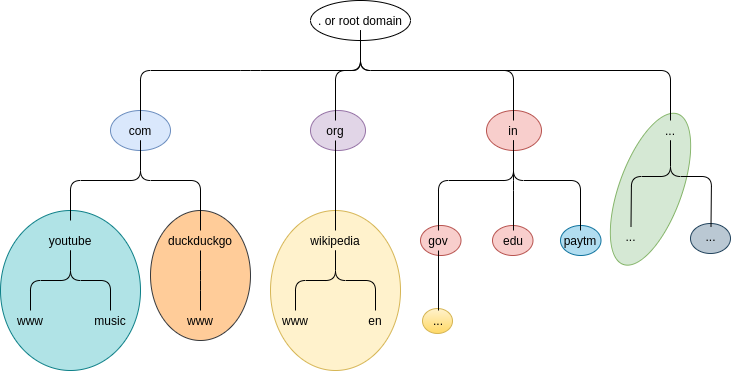
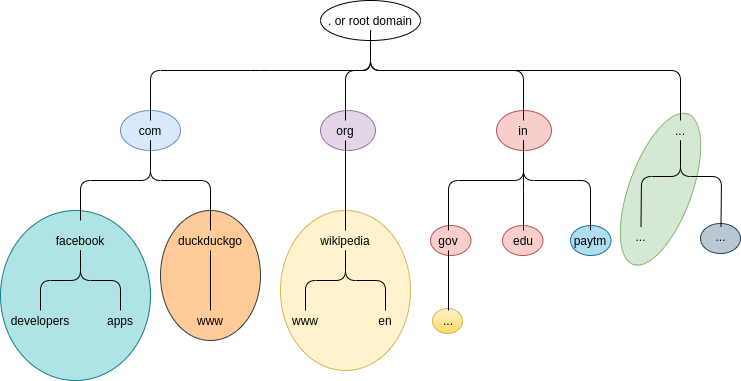
made changes in DNS blog

diff --git a/blog/how-dns-really-works/index.html b/blog/how-dns-really-works/index.html
@@ -66,8 +66,8 @@
       "copyrightYear" : "2020",
       "datePublished": "2020-08-20 13:17:14 \u002b0530 IST",
       "dateModified" : "2020-08-20 13:17:14 \u002b0530 IST",
-      "url" : "\/blog\/how-dns-works\/",
-      "wordCount" : "2521",
+      "url" : "\/blog\/how-dns-really-works\/",
+      "wordCount" : "2731",
       "keywords" : ["Blog"]
     }
   
@@ -115,9 +115,9 @@
           <article class="post__content">
               
 <h2 id="purpose-of-dns">Purpose of DNS<a class="anchor" href="#purpose-of-dns">#</a></h2>
-<p>Internet is a big place. A big set of protocols and physical infrastructre is in place that enables us to use it at such ease. Every device connected to the internet has an IP address assigned to it. This device can host plethora of services which anyone over the internet can access by connecting to it using it&rsquo;s IP address.
-For example, Wikipedia has made its website accessible on IP address 103.102.166.224 (IP address might be different for you), now if I want to access wikipedia I must know this not so easy to memorize long string of numbers so that I can reach out to it. Pffff.</p>
-<p>This would straight away put limitation on accessing all the cool stuff on the Internet. We would rather have some sort of a mechanism which would remember these details for us. So just like a Contact list in a phone, DNS (short for Domain Name System) maintains bunch of information about the server name(or rather domain name) which is invisibly fetched by your web browser (just an example) whenever you open any website.</p>
+<p>Internet is a big place. A large set of protocols and physical infrastructure is in place that enables us to use it at such an ease. Every device connected to the internet has an IP address assigned to it. This device can host a plethora of services which anyone over the internet can access by connecting to it using it&rsquo;s IP address.
+For example, Wikipedia has made its website accessible on IP address 103.102.166.224 (the IP address might be different for you), but it is not convenient to memorize a long string of numbers so that I can reach out to it. Pffff.</p>
+<p>This would straight away put limitations on accessing all the cool stuff on the Internet. It will be simpler to use <code>wikipedia.org</code> instead of an IP address. We would rather have some sort of a mechanism which would remember these mappings for us. So just like a Contact list in a phone, DNS (short for Domain Name System) maintains bunch of information about the server name(or rather domain name) which is invisibly queried by your web browser whenever you open any website.</p>
 <p>Technically DNS is a <mark>distributed, hierarchical database</mark> spread across the internet with mechanisms to interact - insert and retrieve information - with this database. Information in DNS is stored as resource records (RR) which is essentially a mapping between the domain name and some data. Some resource record types are :</p>
 <ul>
 <li><code>A</code>		: maps domain name to an IPv4 address.</li>
@@ -126,58 +126,58 @@ For example, Wikipedia has made its website accessible on IP address 103.102.166
 <li><code>NS</code>		: maps domain name with its authorized nameservers.</li>
 <li><code>SOA</code>		: specifes the start of zone for a domain.</li>
 </ul>
-<p>Having resource records for things more than just an IP address is important to bring a hierarchical structure to DNS and make domain name management easy. DNS also bring consistency in accessiblity by maintaining the same server name in case the IP address of the server is changed.</p>
+<p>Having resource records for things more than just an IP address is important to bring a hierarchical structure to DNS and make domain name management easy. DNS also brings consistency in accessiblity by maintaining the same server name in case the IP address of the server is changed.</p>
 <p>DNS is a critical structure for internet and internet, as we know it, would crumble without DNS.</p>
 <h3 id="breakdown-of-a-url">Breakdown of a URL<a class="anchor" href="#breakdown-of-a-url">#</a></h3>
-<p>Before we begin with how a URL (or a server name) is resolved by DNS, lets first understand a URL and figure out which part of a URL is resolved by DNS. Consider the below URL</p>
+<p>Before we begin, lets first understand a URL and figure out which part of a URL is resolved by DNS. Consider the below URL</p>
 <pre><code>https://www.youtube.com/watch?v=dQw4w9WgXcQ
 </code></pre>
 <ul>
 <li>&lsquo;https&rsquo; is the protocol to be used for communicating with the web service once the connection is established.</li>
-<li>&lsquo;<a href="http://www.youtube.com">www.youtube.com</a>&rsquo; is the domain name which represents the device hosting the web service and needs to be resolved. It is also called Fully Qualified Domain Name (FQDN).</li>
+<li>&lsquo;<a href="http://www.youtube.com">www.youtube.com</a>&rsquo; is the domain name which represents the device hosting the web service and needs to be resolved to an IP address. It is also called Fully Qualified Domain Name (FQDN).</li>
 <li>&lsquo;watch?v=dQw4w9WgXcQ&rsquo; is the resource or page we want to access in the web service.</li>
 </ul>
-<p>The FQDN string is made up of labels separated by a single dot. Traditionally FQDNs end with a dot which representing the root domain. Both &lsquo;<a href="http://www.youtube.com">www.youtube.com</a>&rsquo; and &lsquo;<a href="http://www.youtube.com">www.youtube.com</a><mark>.</mark>&rsquo; are same. The end dot is omitted in representation but internally all resolution occur with the end dot in place.</p>
+<p>The FQDN string is made up of labels separated by a single dot. Traditionally FQDNs end with a dot which represents the root domain. Both &lsquo;<a href="http://www.youtube.com">www.youtube.com</a>&rsquo; and &lsquo;<a href="http://www.youtube.com">www.youtube.com</a><mark>.</mark>&rsquo; are same. The dot in the end can be omitted in representation but internally all resolution occurs with the end dot in place.</p>
 <p><img src="/blog/images/url-breakdown.png" alt="image"></p>
 <h2 id="hierarchy-in-dns">Hierarchy in DNS<a class="anchor" href="#hierarchy-in-dns">#</a></h2>
 <h3 id="domain-names">Domain Names<a class="anchor" href="#domain-names">#</a></h3>
-<p>Domain name is a realm within the internet where the entity owning the domain name possess administrative power over it - create or update resource records in DNS for the corresponding domain name. Hierarchy can be seen in a domain name and can be visualized as a tree. <code>wikipedia.org.</code> is an example of a domain name.
-The hierarchy of domains descend from the right to the left label in the FQDN. Each label to the left specifies a sub-domain of the domain on the right. First domain in the hierarchy is the root domain (represented by a dot .).</p>
-<p><code>com</code>, <code>org</code>, <code>in</code>, <code>io</code> are some sub-domain under the root domain. These first level of domains under the root domain are called Top Level Domains (TLDs) and are independent for operation from the root domain.
-Sub-domains of the TLDs are available to the users of internet for purchase for example <code>wikipedia</code> is the subdomain of TLD <code>org.</code> which must have been purchased at some point of time.</p>
+<p>A domain name is a realm within the internet where the entity owning the domain name possesses administrative power over it - create or update resource records in DNS for the corresponding domain name. Hierarchy can be seen in a domain name and can be visualized as a tree. <code>wikipedia.org.</code> is an example of a domain name.
+The <mark>hierarchy</mark> of domains descend from the right to the left label in the FQDN. Each label to the left specifies a sub-domain of the domain on the right. First domain in the hierarchy is the root domain (represented by a dot .).</p>
+<p><code>com</code>, <code>org</code>, <code>in</code>, <code>io</code> are some sub-domains under the root domain. This first level of domains under the root domain are called Top Level Domains (TLDs) and are independent for operation from the root domain.
+Sub-domains of the TLDs are available to the users of internet for purchase. For example <code>wikipedia</code> is the subdomain of TLD <code>org.</code> which must have been purchased at some point of time.</p>
 <p><img src="/blog/images/hierarchy-dns.png" alt="image"></p>
 <ul>
 <li><code>com</code>, <code>org</code>, <code>in</code> are subdomains of root domain.</li>
-<li><code>youtube</code>, <code>duckduckgo</code> are subdomain of <code>com</code> or <code>com.</code> domain.</li>
+<li><code>youtube</code>, <code>duckduckgo</code> are subdomains of <code>com</code> or <code>com.</code> domain.</li>
 <li><code>www</code>, <code>music</code> are subdomains of <code>youtube.com</code> or <code>youtube.com.</code> domain.</li>
 </ul>
-<p>Having authority over a domain name gives the ability to map that domain to an IP address of some network device(which may be running some network services), to create sub-domains. Domain owner can even choose to delegate authority of a sub-domain to a different entity. This is what TLDs generally do when they sell a sub-domain.</p>
+<p>Having authority over a domain name gives the ability to map that domain to an IP address of some network device(which may be running some network services) or to create sub-domains. Domain owner can even choose to delegate authority of a sub-domain to a different entity. For example if Google feels like then it can sell domain <code>music.youtube.com</code> and delegate full authority of the domain to the buyer. This is what TLDs generally do when they sell a sub-domain.</p>
 <h3 id="zones">Zones<a class="anchor" href="#zones">#</a></h3>
-<p>A zone is the set of sub-domains including the domain itself over which a domain owner exercises full control. For example The root zone just has the root domain. ICANN organization, which manages the root zone, has the authority to create more TLDs (which would be subdomains) as they have done in the past.</p>
-<p>Sub-domains of root domain <code>com</code>, <code>org</code> are completely independent from the root domain in terms of authority. This means that the root domain is not affected by any mean if any new sub-domain is added under the <code>com</code> domain as the <code>com</code> domain is outside its jurisdiction. <code>youtube.com</code> is in a separate zone. Domains <code>www.youtube.com</code> and <code>music.youtube.com</code> are in the same zone as <code>youtube.com</code>. If <code>youtube.com</code> wanted to add a new service, say for live streaming, they can setup <code>stream.youtube.com</code> without bothering the parent domain <code>com</code>.</p>
+<p>A zone is the set of sub-domains including the domain itself over which a domain owner exercises full control. The root zone just has the root domain. ICANN organization, which manages the root zone, has the authority to create more TLDs (which would be subdomains) as they have done in the past.</p>
+<p>Sub-domains of root domain <code>com</code>, <code>org</code> are completely independent from the root domain in terms of authority. This means that the root domain is not affected by any means if any new sub-domain is added under the <code>com</code> domain, as the <code>com</code> domain is outside its jurisdiction. <code>facebook.com</code> is in a separate zone. Domains <code>apps.facebook.com</code> and <code>developers.facebook.com</code> are in the same zone as <code>facebook.com</code>. If <code>facebook.com</code> wanted to add a new service, say for live tv, they can setup <code>tv.facebook.com</code> in the same zone without bothering the parent domain <code>com</code>.</p>
 <p><img src="/blog/images/zones-dns.png" alt="image"></p>
 <p>It is possible for a domain to include just a few sub-domains under its zone and delegate authority for the other subdomains.</p>
 <h3 id="authoritative-nameserver">Authoritative Nameserver<a class="anchor" href="#authoritative-nameserver">#</a></h3>
-<p>Each of the domain have alteast 2 (for redundancy) dedicated authoritative nameservers associated with them. These nameservers maintain, serve information for the domain and subdomains and is the component in DNS resolution which is queried for resource records (domain - data mapping) for the domains. The nameservers enables the DNS to be distributed as the domains don&rsquo;t have to rely on a single server to get resolved.</p>
-<p>It is up to the administrators to configure the nameservers as upto their choice. Typically big organizations maintain their own authoritative nameservers. But it is very common for a domain name to have its authoritative nameserver shared between other domains. In other words, many separate, non related domains names could be using shared nameservers.</p>
+<p>Each of the domains have alteast 2 (for redundancy) dedicated authoritative nameservers associated with them. These nameservers maintain and serve resource records for the domain and its subdomains. If there is a query for a domain name then it will be ultimately served by its authoritative nameservers.</p>
+<p>Authoritative nameservers are important components of DNS as they form the nodes of the distributed, hierarchical database that is queried upon for domain name resolution. They make DNS distributed as each domain name can have its own nameservers and is not tied to a single central database.</p>
+<p>It is up to the administrators to configure the nameservers as per their choice. Big organizations may maintain their own authoritative nameservers that manage resource records exclusive to their domains. But it is very common for a domain name to have its authoritative nameserver shared between other domains. In other words, many separate, non related domains names could be using shared nameservers.</p>
 <h2 id="dns-resolution-in-action">DNS Resolution in Action<a class="anchor" href="#dns-resolution-in-action">#</a></h2>
-<p>DNS resolution is initiated by a DNS resolver seeking for some information (like an IP address) of a domain name. It creates a DNS query and sends it to the DNS server whose purpose is to resolve DNS queries for the DNS resolver. We can configure our devices to use specific DNS servers. Most of the Internet Service Providers provide a DNS server which is automatically used as default. <code>8.8.8.8</code> is a very popular, easy to remember, DNS server provided by Google. Below image demonstrates the flow of queries and responses in DNS resolution.</p>
+<p>DNS resolution is initiated by a DNS client seeking for some information (like an IP address) of a domain name. It creates a DNS query and sends it to the DNS server who then resolves the query for the DNS client. When we connect to Internet, our network configurations hold default DNS Servers which might be provided by our ISP. We can even use DNS servers of our choice. <code>8.8.8.8</code> is a very popular, easy to remember, DNS server provided by Google.</p>
+<p>Below image demonstrates the flow of queries and responses in DNS resolution.</p>
 <p><img src="/blog/images/dns-resolution.png" alt="image"></p>
 <ol>
-<li>The client (DNS resolver) seeking Type <code>A</code> resource records, which holds IP address, for the domain en.wikipedia.org creates a DNS query and sends it to the configured DNS server.</li>
-<li>DNS Server starts resolving the domain name one label at a time from right to left starting with the root domain. How would it resolve the top in the hierarchy root domain? DNS servers have nameservers of root domain stored with them to begin with. Next in line would be <code>org.</code> It queries one of the authoritative nameservers of root domain asking for nameservers of <code>org.</code> Note that it searches for nameserver because they hold all the information for the domain.</li>
+<li>The client seeking Type <code>A</code> resource records, which holds IP address, for the domain en.wikipedia.org creates a DNS query and sends it to the configured DNS server.</li>
+<li>To find the IP address of <code>en.wikipedia.org</code> DNS server must first find the nameservers for the domain. In order to find that nameserver, the DNS Server starts resolving the domain name one label at a time from right to left starting with the root domain whose nameservers are stored with the DNS server to begin with. Next in line would be <code>org.</code> It queries one of the authoritative nameservers of root domain asking for nameservers of <code>org.</code> Note that it searches for nameserver first because they hold all the information for the domain.</li>
 <li>The queried nameserver returns the result to the DNS server.</li>
 <li>DNS server next queries one of the nameservers for the <code>org.</code> domain asking for nameservers of <code>wikipedia.org</code></li>
 <li>The queried nameserver returns a suitable result to the DNS server.</li>
 <li>At last the DNS server queries the <code>wikipedia.org</code> nameserver asking for Type <code>A</code> records of <code>en.wikipedia.org</code></li>
 <li>The queried nameserver responds with the Type <code>A</code> resource record to the DNS server.</li>
-<li>DNS server replies this result to the DNS resolver which had raised the query.</li>
+<li>DNS server replies this result to the DNS client which had raised the query.</li>
 </ol>
-<p>To spare the nameservers from the load of repititive queries, the DNS servers implement the cache mechanism and only queries the nameservers in hierarchy if it doesn&rsquo;t have the resource record requested by the resolver in its cache. To explain the DNS resolution with all of its components, the above illustration doesn&rsquo;t take cache into consideration. In case the DNS Servers and Namerservers does not have the requested info they&rsquo;ll reply with a suitable answer.</p>
-<p>recursive
-iterative</p>
+<p>To spare the nameservers from the load of repititive queries, the DNS servers implement the cache mechanism and only query the nameservers in hierarchy if they don&rsquo;t have the resource record requested by the client in its cache. To explain the DNS resolution with all of its components, the above illustration doesn&rsquo;t take cache into consideration. In case the DNS Servers and Namerservers do not have the requested info they&rsquo;ll reply with a suitable answer.</p>
 <h2 id="examples-using-dig">Examples using DiG<a class="anchor" href="#examples-using-dig">#</a></h2>
-<p>After all the reading its fun time, to see it all happening and to validate the theory. I&rsquo;ve set my DNS server to <code>208.67.222.222</code> and will be using <code>dig</code> utility to carry out a couple of DNS queries in bash shell.</p>
+<p>After all the reading it&rsquo;s fun time, to see it all happening and to validate the theory. I&rsquo;ve set my DNS server to <code>208.67.222.222</code> and will be using <code>dig</code> utility to carry out a couple of DNS queries in bash shell.</p>
 <h3 id="1-simple-dig-query">1. Simple dig query<a class="anchor" href="#1-simple-dig-query">#</a></h3>
 <p><code>dig</code> expects a domain name as an argument and will query for Type A resource records by default. Below is the command <code>dig www.reddit.com</code> and its output.</p>
 <pre><code>neeraj@mrm:~$ dig www.reddit.com 
@@ -215,12 +215,12 @@ reddit.map.fastly.net.	30	IN	A	151.101.1.140
 ;; -&gt;&gt;HEADER&lt;&lt;- opcode: QUERY, status: NOERROR, id: 16713
 ;; flags: qr rd ra; QUERY: 1, ANSWER: 5, AUTHORITY: 0, ADDITIONAL: 1
 </code></pre>
-<p>Then will be the querry issued to the DNS Server. Format under Question Section is domain name, DNS Class, Type of RR. Here <code>IN</code> means DNS Class &lsquo;Internet&rsquo;.</p>
+<p>Then will be the query issued to the DNS Server. Column format under Question Section is domain name, DNS Class, Type of resource record. Here <code>IN</code> means DNS Class &lsquo;Internet&rsquo;.</p>
 <pre><code>;; QUESTION SECTION:
 ;www.reddit.com.			IN	A
 </code></pre>
-<p>Question section is followed by the responses in the form of Answer, Authority and Additional section. In this example we just have the Answer Section in which we recieved Type <code>CNAME</code> RR for the queried domain instead of Type <code>A</code> probably because the Type <code>A</code> RR for the domain does not exist and this is what the DNS Server found relative to the query.
-<code>CNAME</code> specify aliases so basically <code>www.reddit.com.</code> and <code>reddit.map.fastly.net.</code> are two different names for the same thing - if we have IP Address of either then we can connect. The number after the domain name is the number of seconds a host can cache the resource record. After <code>CNAME</code> we have Type <code>A</code> RR for <code>reddit.map.fastly.net.</code> This just gave us 4 IP addresses with which we can access <code>www.reddit.com.</code></p>
+<p>Question section is followed by the responses in the form of Answer, Authority and Additional section. In this example we just have the Answer Section in which we recieved Type <code>CNAME</code> resource record for the queried domain instead of Type <code>A</code>, probably because the Type <code>A</code> resource record for the domain does not exist and this is what the DNS Server found relative to the query.
+<code>CNAME</code> specify aliases so basically <code>www.reddit.com.</code> and <code>reddit.map.fastly.net.</code> are two different names for the same thing. The number after the domain name is the number of seconds a host can cache the resource record. After <code>CNAME</code> we have Type <code>A</code> resource record for <code>reddit.map.fastly.net.</code> This just gave us 4 IP addresses with which we can access <code>www.reddit.com.</code></p>
 <pre><code>;; ANSWER SECTION:
 www.reddit.com.		254	IN	CNAME	reddit.map.fastly.net.
 reddit.map.fastly.net.	30	IN	A	151.101.65.140
@@ -228,14 +228,14 @@ reddit.map.fastly.net.	30	IN	A	151.101.129.140
 reddit.map.fastly.net.	30	IN	A	151.101.193.140
 reddit.map.fastly.net.	30	IN	A	151.101.1.140
 </code></pre>
-<p>At last we have some stats about the the whole operation. The time it took for the operation, the DNS Server which was queried.</p>
+<p>At last we have some stats about the the whole operation. The time it took for the operation, the DNS Server which was queried, etc.</p>
 <pre><code>;; Query time: 84 msec
 ;; SERVER: 208.67.222.222#53(208.67.222.222)
 ;; WHEN: Tue Sep 01 00:16:04 IST 2020
 ;; MSG SIZE  rcvd: 142
 </code></pre>
 <h3 id="2-more-on-cname">2. More on <code>CNAME</code><a class="anchor" href="#2-more-on-cname">#</a></h3>
-<p>You may know that you can even open facebook from <code>www.fb.com</code>. Lets see whats happening behind.</p>
+<p>You may know that you can even open facebook from <code>www.fb.com</code>. Lets see whats happening behind. I encourage you to go through the output.</p>
 <pre><code>neeraj@mrm:~$ dig www.fb.com 
 
 ; &lt;&lt;&gt;&gt; DiG 9.16.1-Ubuntu &lt;&lt;&gt;&gt; www.fb.com
@@ -259,7 +259,8 @@ star-mini.c10r.facebook.com. 60	IN	A	157.240.198.35
 ;; WHEN: Sun Sep 06 23:47:27 IST 2020
 ;; MSG SIZE  rcvd: 111
 </code></pre>
-<p>Ah! So <code>www.facebook.com</code> is just an alias of <code>www.fb.com</code>. We can even directly query for a certain resource record by putting the Type after the domain name.</p>
+<p>Ah! So in the Answer section we can see that  <code>www.facebook.com</code> is just an alias of <code>www.fb.com</code>.</p>
+<p>We can even directly query for a certain resource record by putting the Type after the domain name.</p>
 <pre><code>neeraj@mrm:~$ dig www.fb.com CNAME
 
 ; &lt;&lt;&gt;&gt; DiG 9.16.1-Ubuntu &lt;&lt;&gt;&gt; www.fb.com CNAME
@@ -282,7 +283,9 @@ www.fb.com.		570	IN	CNAME	www.facebook.com.
 ;; MSG SIZE  rcvd: 66
 </code></pre>
 <h3 id="3-complete-dns-resolution">3. Complete DNS resolution<a class="anchor" href="#3-complete-dns-resolution">#</a></h3>
-<p>Dig utility has an interesting flag <code>+trace</code>, which can emulate a how a DNS Server resolves a query. Dig would iteratively resolve the domain name being query starting from the root domain. You can compare this with the diagram above. In the end we get our result - alias of <code>www.duckduckgo.com.</code> and the Type A resource record associated with the alias. You may ignore the <code>NSEC3</code> and <code>RRSIG</code> resource records in this example.</p>
+<p>Dig utility has an interesting flag <code>+trace</code>, which can emulate a how a DNS Server resolves a query. Dig would iteratively resolve the domain name in query starting from the root domain. You can even compare this with the diagram above. In the end we get our result - alias of <code>www.duckduckgo.com.</code> and the Type A resource record associated with the alias.
+You are requested to go through the output. With the <code>+trace</code> flag the output only contains the responses and at the bottom of each section of responses there is the FQDN of the DNS server who replied or was queried.</p>
+<p>Ignore the <code>NSEC3</code> and <code>RRSIG</code> resource records for now.</p>
 <pre><code>neeraj@mrm:~$ dig www.duckduckgo.com  +trace
 
 ; &lt;&lt;&gt;&gt; DiG 9.16.1-Ubuntu &lt;&lt;&gt;&gt; www.duckduckgo.com +trace
@@ -338,6 +341,14 @@ www.duckduckgo.com.	86400	IN	CNAME	duckduckgo.com.
 duckduckgo.com.		200	IN	A	40.81.94.43
 ;; Received 77 bytes from 148.163.196.65#53(ns02.quack-dns.com) in 187 ms
 </code></pre>
+<p>Output explanation :</p>
+<ul>
+<li>Dig starts with asking the DNS Server for the nameservers of the root domain.</li>
+<li>One of the nameserver of root domain(<code>h.root-servers.net</code>) is then queried for the <code>com.</code> nameservers.</li>
+<li>Then the <code>com.</code> nameserver <code>h.root-servers.net</code> is queried for the nameservers of <code>duckduckgo.com.</code> and the dig gets the requested response.</li>
+<li>Finally <code>ns02.quack-dns.com</code> nameserver replies with <code>CNAME</code> and <code>A</code> Type resource records. If you notice the <code>CNAME</code> resource records here, there is no need to add <code>www.</code> in front of <code>duckduckgo.com</code> to access the website.</li>
+</ul>
+<p>Lo and behold! I hope that you now understand DNS.</p>
 
 
               
@@ -348,9 +359,6 @@ duckduckgo.com.		200	IN	A	40.81.94.43
     
     <li class="tag__item">
         <a class="tag__link" href="/tags/dns/">dns</a>
-    </li>
-    <li class="tag__item">
-        <a class="tag__link" href="/tags/domain/">domain</a>
     </li>
     <li class="tag__item">
         <a class="tag__link" href="/tags/dig/">dig</a>

diff --git a/blog/index.html b/blog/index.html
@@ -103,7 +103,7 @@
         <time class="post__date" datetime="2020-08-20 13:17:14 &#43;0530 IST"
           >Aug 20 2020</time>
         <h2 class="post__title">
-          <a href="/blog/how-dns-works/">How DNS really works</a>
+          <a href="/blog/how-dns-really-works/">How DNS really works</a>
         </h2>
         
 
@@ -111,9 +111,6 @@
     
     <li class="tag__item">
         <a class="tag__link" href="/tags/dns/">dns</a>
-    </li>
-    <li class="tag__item">
-        <a class="tag__link" href="/tags/domain/">domain</a>
     </li>
     <li class="tag__item">
         <a class="tag__link" href="/tags/dig/">dig</a>
@@ -132,10 +129,6 @@
   
   <li class="tag__item">
     <a class="tag__link" href="/tags/dns">dns (1)</a>
-  </li>
-  
-  <li class="tag__item">
-    <a class="tag__link" href="/tags/domain">domain (1)</a>
   </li>
     
 </ul>

diff --git a/tags/index.html b/tags/index.html
@@ -123,19 +123,6 @@
       </div>
     </li>
     
-    <li class="post">
-      <div class="post__header">
-        <time class="post__date" datetime="2020-08-20 13:17:14 &#43;0530 IST"
-          >Aug 20 2020</time>
-        <h2 class="post__title">
-          <a href="/tags/domain/">domain</a>
-        </h2>
-        
-
-
-      </div>
-    </li>
-    
   </ul>
   <ul class="tags__list">
   
@@ -145,10 +132,6 @@
   
   <li class="tag__item">
     <a class="tag__link" href="/tags/dns">dns (1)</a>
-  </li>
-  
-  <li class="tag__item">
-    <a class="tag__link" href="/tags/domain">domain (1)</a>
   </li>
     
 </ul>

diff --git a/tags/dig/index.html b/tags/dig/index.html
@@ -104,7 +104,7 @@
         <div class="post__header">
           <time class="post__date" datetime="2020-08-20 13:17:14 &#43;0530 IST">Aug 20 2020</time>
           <h2 class="post__title">
-            <a href="/blog/how-dns-works/">How DNS really works</a>
+            <a href="/blog/how-dns-really-works/">How DNS really works</a>
           </h2>
         </div>
       </li>

diff --git a/tags/dns/index.html b/tags/dns/index.html
@@ -104,7 +104,7 @@
         <div class="post__header">
           <time class="post__date" datetime="2020-08-20 13:17:14 &#43;0530 IST">Aug 20 2020</time>
           <h2 class="post__title">
-            <a href="/blog/how-dns-works/">How DNS really works</a>
+            <a href="/blog/how-dns-really-works/">How DNS really works</a>
           </h2>
         </div>
       </li>

diff --git a/categories/index.html b/categories/index.html
@@ -107,10 +107,6 @@
   <li class="tag__item">
     <a class="tag__link" href="/tags/dns">dns (1)</a>
   </li>
-  
-  <li class="tag__item">
-    <a class="tag__link" href="/tags/domain">domain (1)</a>
-  </li>
     
 </ul>
 
